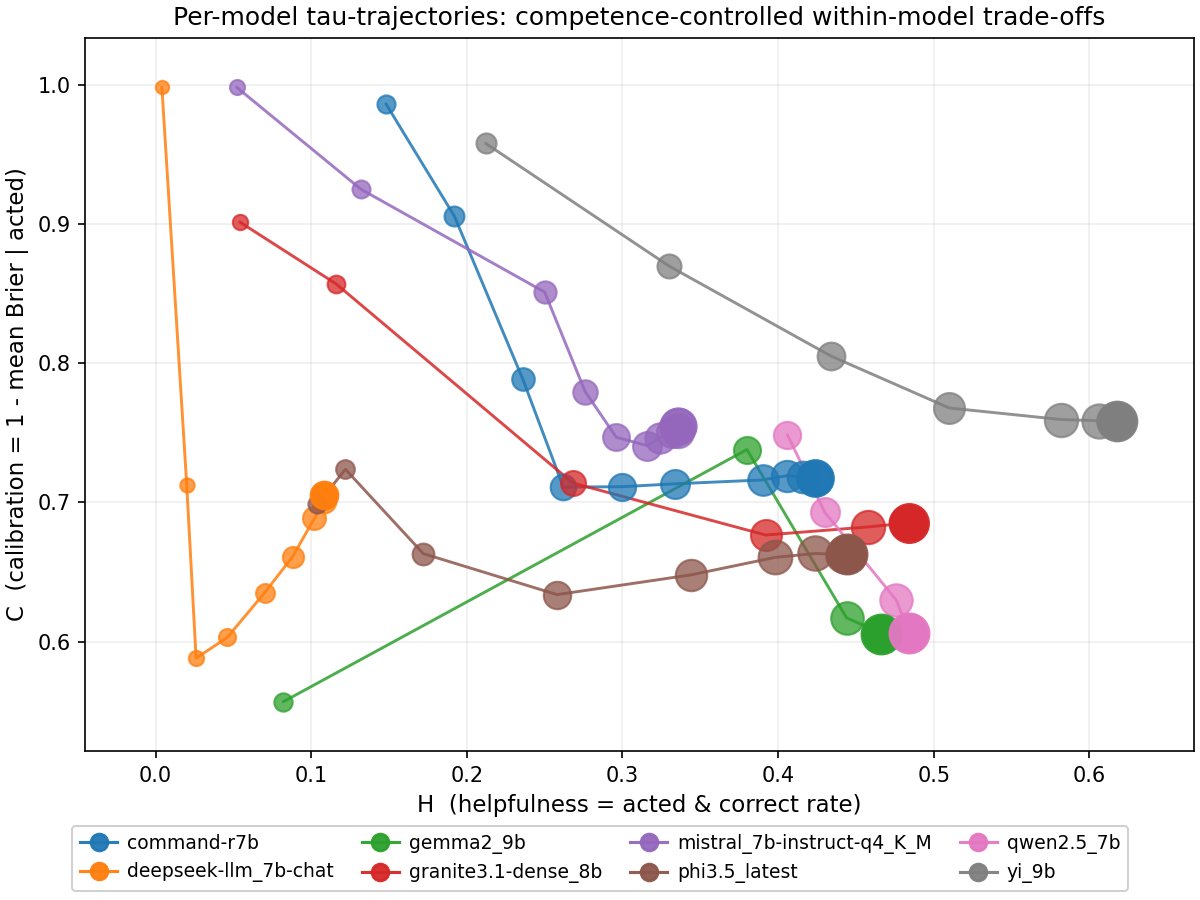
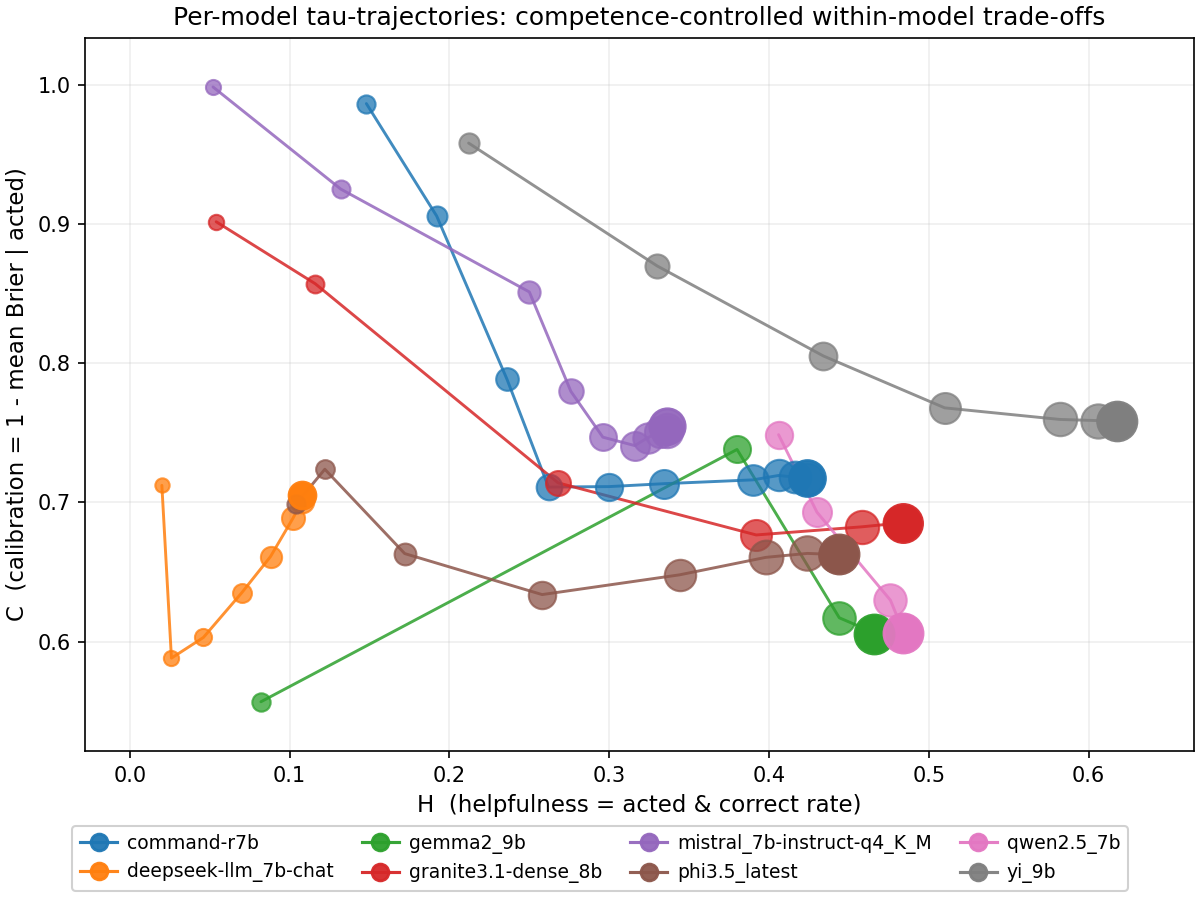
L.5(figure-fix): n_acted>=10 gate on trajectory rendering; suppress small-sample spikes
deepseek-llm:7b-chat's high-tau trajectory previously spiked to
(H~0, C=1.0) because only ~1 acted row survived above tau=0.95, with
that one row happening to be correct. Visually misleading. Fix: drop
trajectory points where n_acted < 10. Affects only the tau tail;
baselines (tau=0) for every model far exceed the threshold (smallest
is deepseek at ~192). Figure re-rendered; pytest 145+ remains green.
Manuscript also updated (separate Dropbox sync) with two model-specific
empirical observations: gemma's anti-correlated calibration in its
low-confidence tail (trajectory direction); deepseek's 100%
empty-answer abstentions concentrated on code+factual (a real
refusal/abstention bias, not parser miss).

diff --git a/scripts/plot_model_points.py b/scripts/plot_model_points.py
@@ -310,13 +310,16 @@ def _draw_model_trajectory(
     n_seeds: int,
 ):
     """Render one model's tau-trajectory: line + per-tau bubbles + label."""
-    # Filter out NaN points (e.g. tau=1.0 typically has C=nan); keep only
-    # contiguous well-defined (H, C) points for the line. The bubbles for
-    # nan-C points are skipped — there is no (H, C) location to draw.
+    # Filter NaN points AND low-n_acted points (e.g. deepseek at tau>=0.9
+    # has only ~1 acted row, producing a spurious C=1.0 spike). MIN_N_ACTED
+    # is a per-tau cell threshold; baseline (tau=0) for every model far
+    # exceeds it (smallest baseline is deepseek's ~192 acted of 500).
+    MIN_N_ACTED = 10
     pts = [
         (e["tau"], e["H"], e["C"], e["A"])
         for e in traj
         if e["H"] == e["H"] and e["C"] == e["C"]
+        and e.get("n_acted", 0) >= MIN_N_ACTED
     ]
     if not pts:
         return